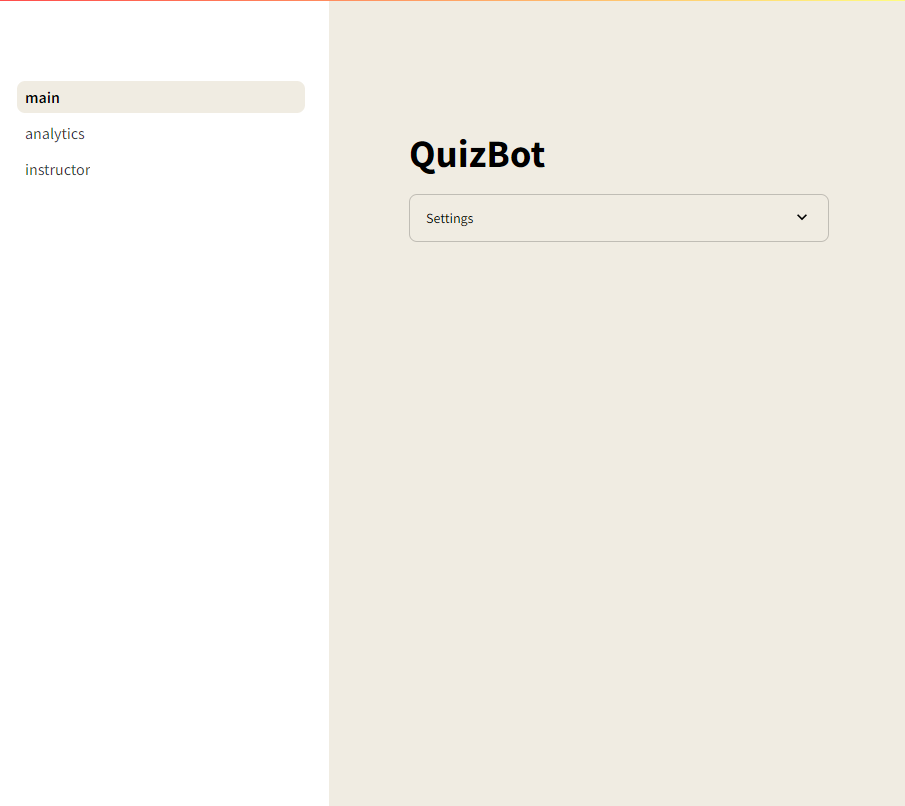
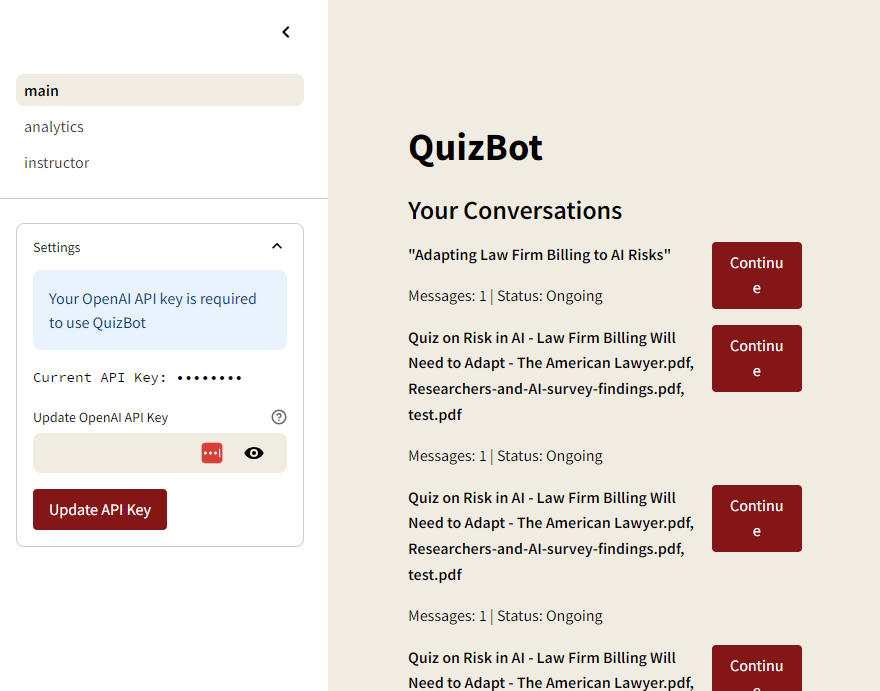
Agent query: Are the navigation menu items now showing as 'Home' and 'Analytics' (capitalized), and is the Start Quiz button working properly?

diff --git a/main.py b/main.py
@@ -39,6 +39,29 @@ if 'custom_openai_key' not in st.session_state:
 with open('assets/style.css') as f:
     st.markdown(f'<style>{f.read()}</style>', unsafe_allow_html=True)
 
+def start_new_quiz():
+    """Start a new quiz conversation"""
+    if st.session_state.user_id:
+        # Create a new conversation
+        conversation_id = db_ops.create_conversation(
+            st.session_state.user_id,
+            title=f"Quiz {datetime.now().strftime('%Y-%m-%d %H:%M')}"
+        )
+        st.session_state.conversation_id = conversation_id
+        st.session_state.quiz_started = True
+        st.session_state.messages = []
+        st.rerun()
+
+def continue_conversation(conv_id):
+    """Continue an existing conversation"""
+    if st.session_state.user_id:
+        st.session_state.conversation_id = conv_id
+        # Load existing messages
+        messages = db_ops.get_conversation_messages(conv_id)
+        st.session_state.messages = [(msg[0], msg[1]) for msg in messages]  # (role, content)
+        st.session_state.quiz_started = True
+        st.rerun()
+
 def main():
     # Authentication
     if not st.session_state.user_id:
@@ -122,8 +145,12 @@ def main():
                         st.rerun()
                     else:
                         st.error("Failed to update API key.")
+
+    # Add Start Quiz button at the top
+    if st.button("Start New Quiz", type="primary", key="start_quiz"):
+        start_new_quiz()
     
-    # Show conversations by default
+    # Show conversations
     conversations = db_ops.get_user_conversations(st.session_state.user_id)
     if conversations:
         st.subheader("Your Conversations")
@@ -135,11 +162,10 @@ def main():
                     st.write(f"**{title}**")
                     st.write(f"Messages: {msg_count} | Status: {status.title()}")
                 with col2:
-                    if st.button("Continue", key=f"continue_{conv_id}"):
-                        st.session_state.conversation_id = conv_id
-                        st.rerun()
+                    if status == 'ongoing' and st.button("Continue", key=f"continue_{conv_id}"):
+                        continue_conversation(conv_id)
     else:
-        st.info("Start a new conversation to begin learning!")
+        st.info("Start a new quiz to begin learning!")
 
 if __name__ == "__main__":
     main()
